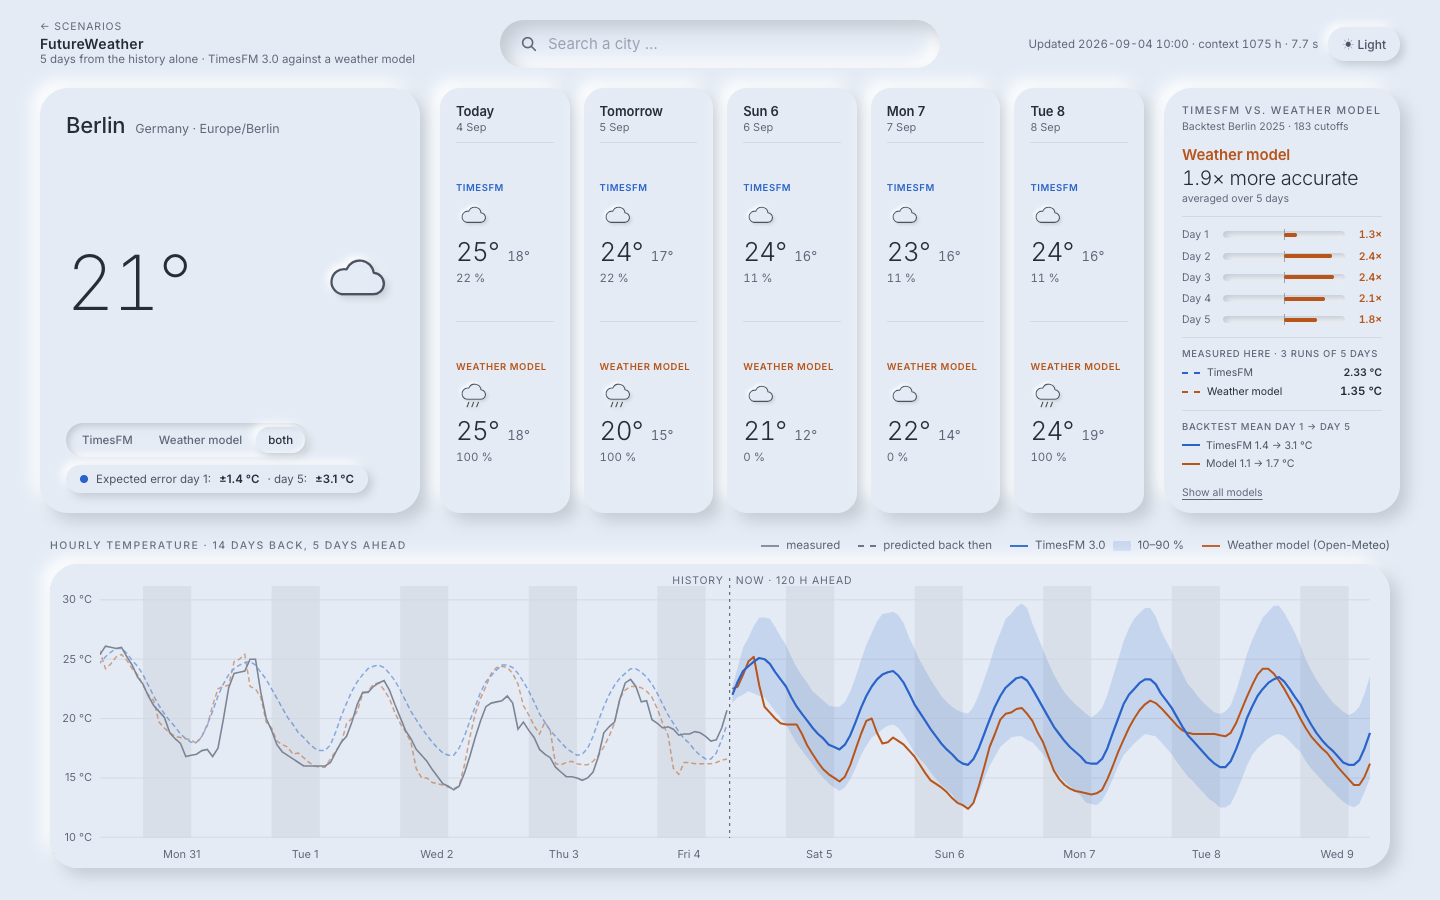
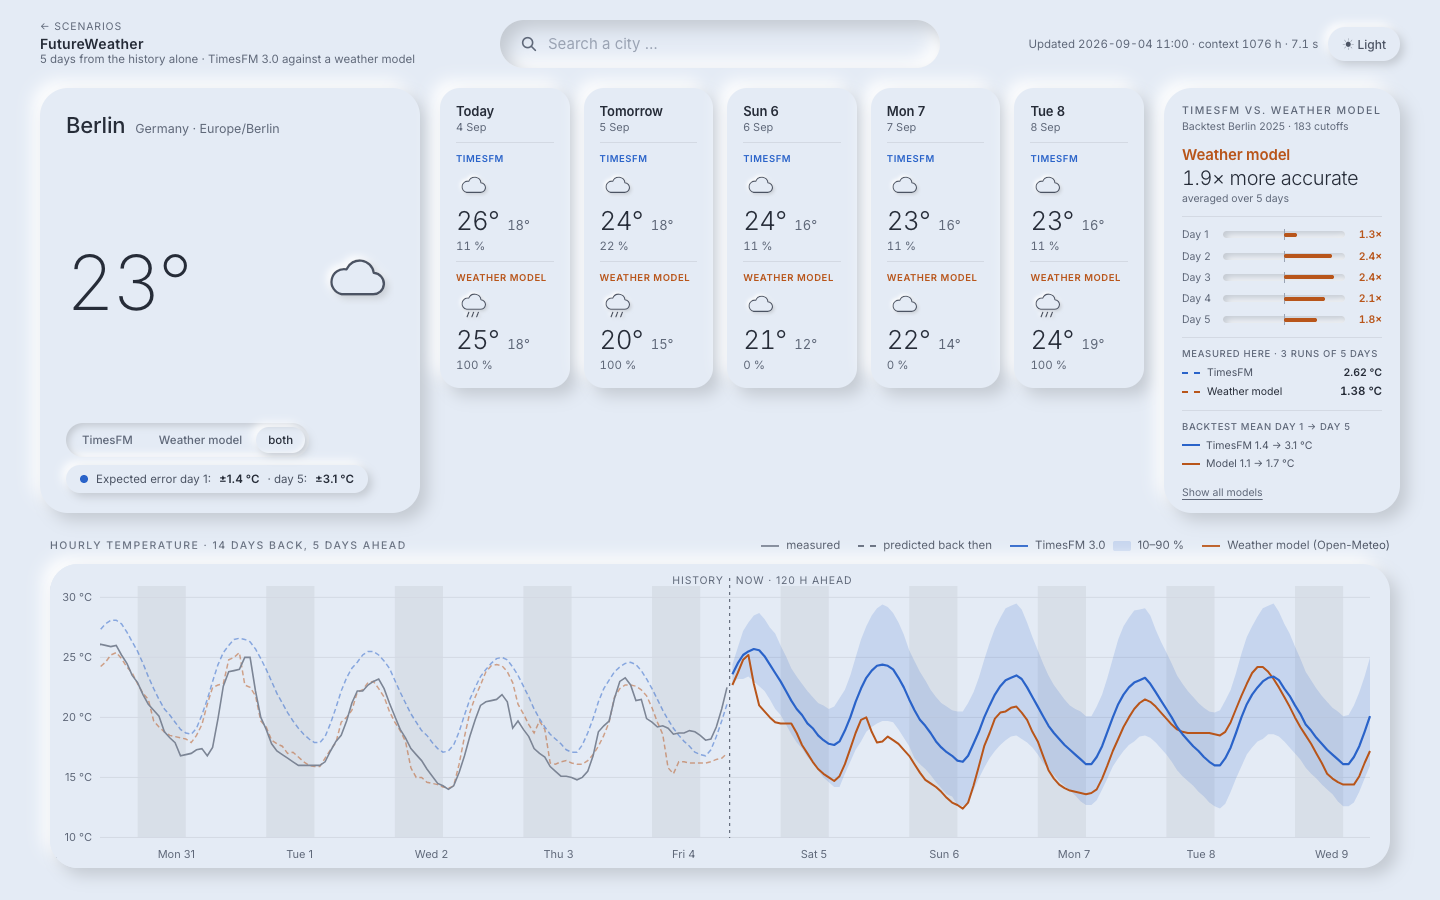
weather: day cards size to content in both modes; hub: two more margin notes on wide screens

diff --git a/src/wetter/styles/global.css b/src/wetter/styles/global.css
@@ -417,6 +417,7 @@ button {
 .days {
   display: grid;
   gap: 14px;
+  align-self: start;
 }
 
 .day {
@@ -454,15 +455,13 @@ button {
   font-size: 11px;
 }
 
-/* one source: icon, big high / small low, rain - spread over the card */
+/* one source: icon, big high / small low, rain */
 .day .single {
-  flex: 1;
   display: flex;
   flex-direction: column;
-  justify-content: center;
-  gap: 10px;
+  gap: 8px;
   border-top: 1px solid var(--grid);
-  padding-top: 14px;
+  padding-top: 12px;
 }
 
 .day .icon {
@@ -503,14 +502,16 @@ button {
 }
 
 .day.split .row {
-  flex: 1;
   display: flex;
   flex-direction: column;
-  justify-content: center;
-  gap: 6px;
+  gap: 5px;
   border-top: 1px solid var(--grid);
-  padding: 10px 0 6px;
+  padding: 10px 0 8px;
   min-width: 0;
+}
+
+.day.split .row:last-child {
+  padding-bottom: 2px;
 }
 
 .day.split .row .src {

diff --git a/src/hub/hub.css b/src/hub/hub.css
@@ -398,6 +398,32 @@ body {
   margin: 2px 0;
 }
 
+/* lower margins, left and right of the cards; only where there is room for them */
+.note.n5 {
+  right: calc(100% - 22px);
+  bottom: 130px;
+  font-size: 22px;
+  line-height: 1.1;
+  align-items: flex-end;
+  text-align: right;
+  transform: rotate(-6deg);
+}
+
+.note.n6 {
+  left: calc(100% - 22px);
+  bottom: 160px;
+  font-size: 22px;
+  line-height: 1.1;
+  transform: rotate(5deg);
+}
+
+@media (max-width: 1600px) {
+  .note.n5,
+  .note.n6 {
+    display: none;
+  }
+}
+
 @media (max-width: 1460px) {
   .note.n4 {
     display: none;

diff --git a/src/hub/Hub.tsx b/src/hub/Hub.tsx
@@ -26,6 +26,16 @@ export default function Hub() {
           </svg>
           forecast out
         </span>
+        <span className="note n5">
+          1,281 + 104
+          <br />
+          forecasts
+        </span>
+        <span className="note n6">
+          nothing peeks
+          <br />
+          at the future
+        </span>
       </div>
       <header className="hubHead">
         <h1>Three experiments with a time‑series foundation model</h1>
